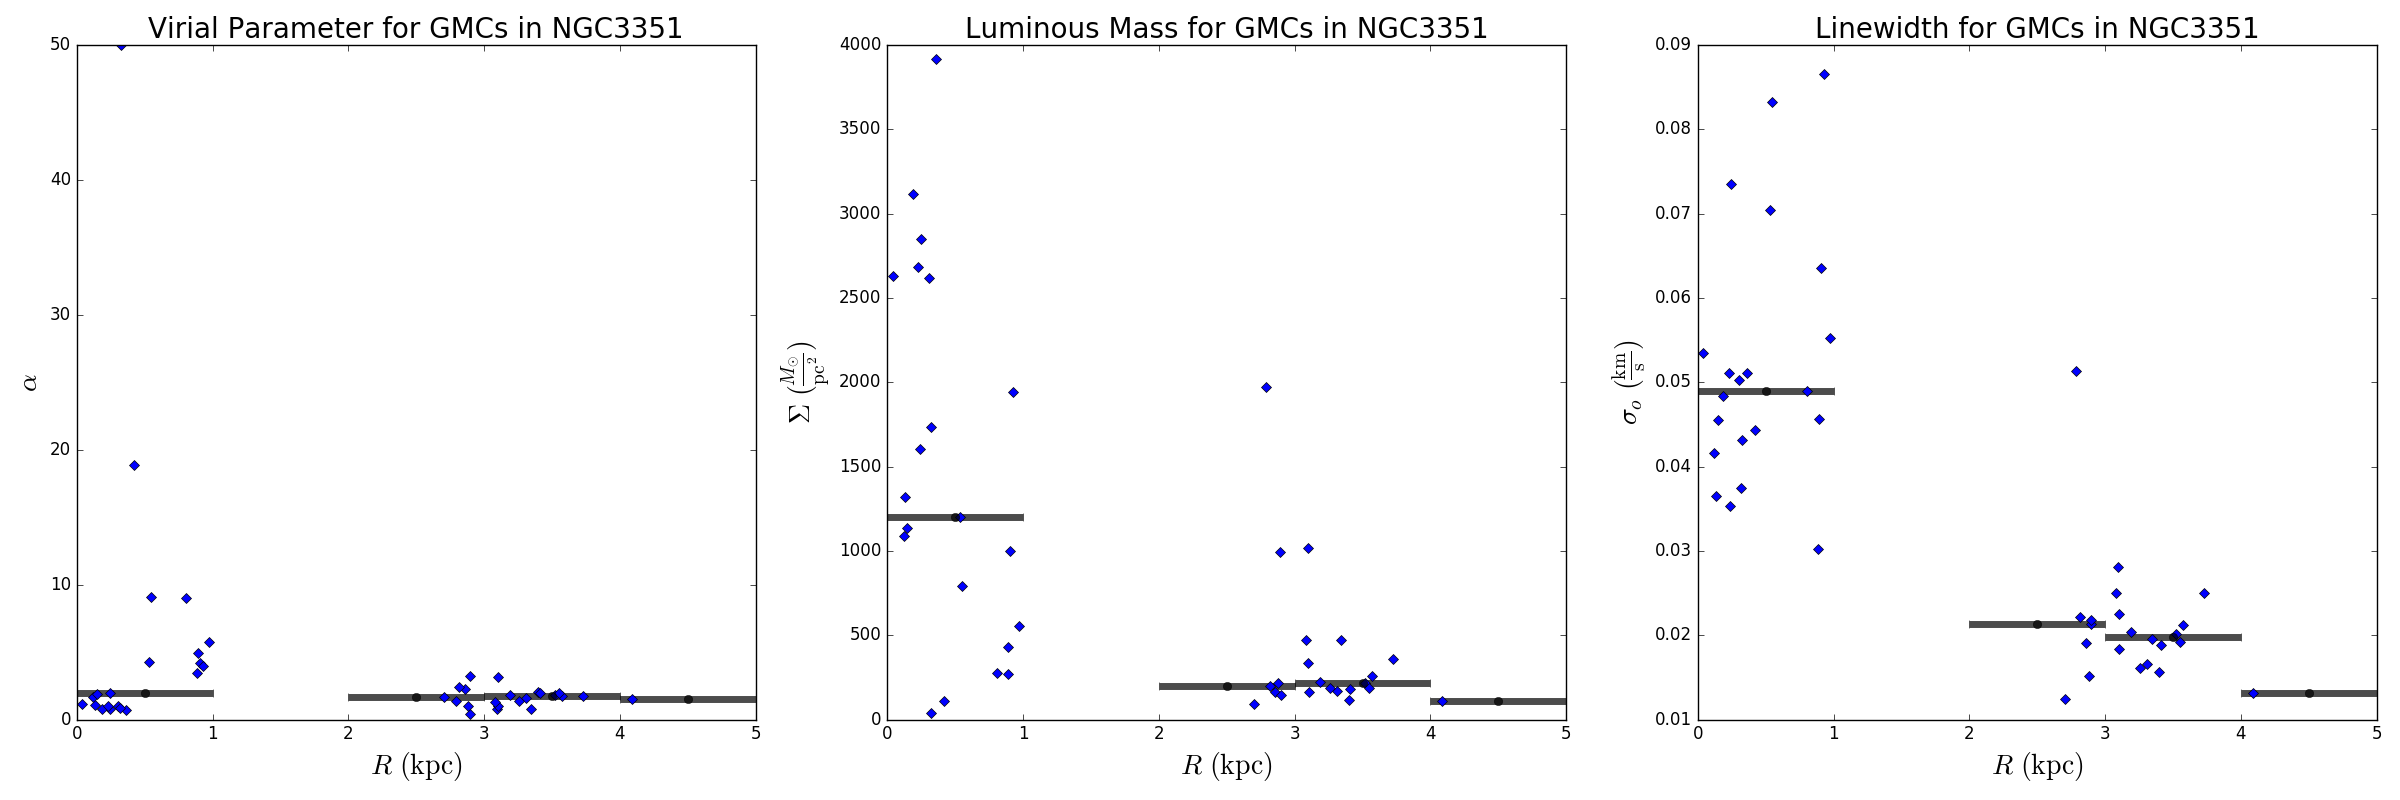
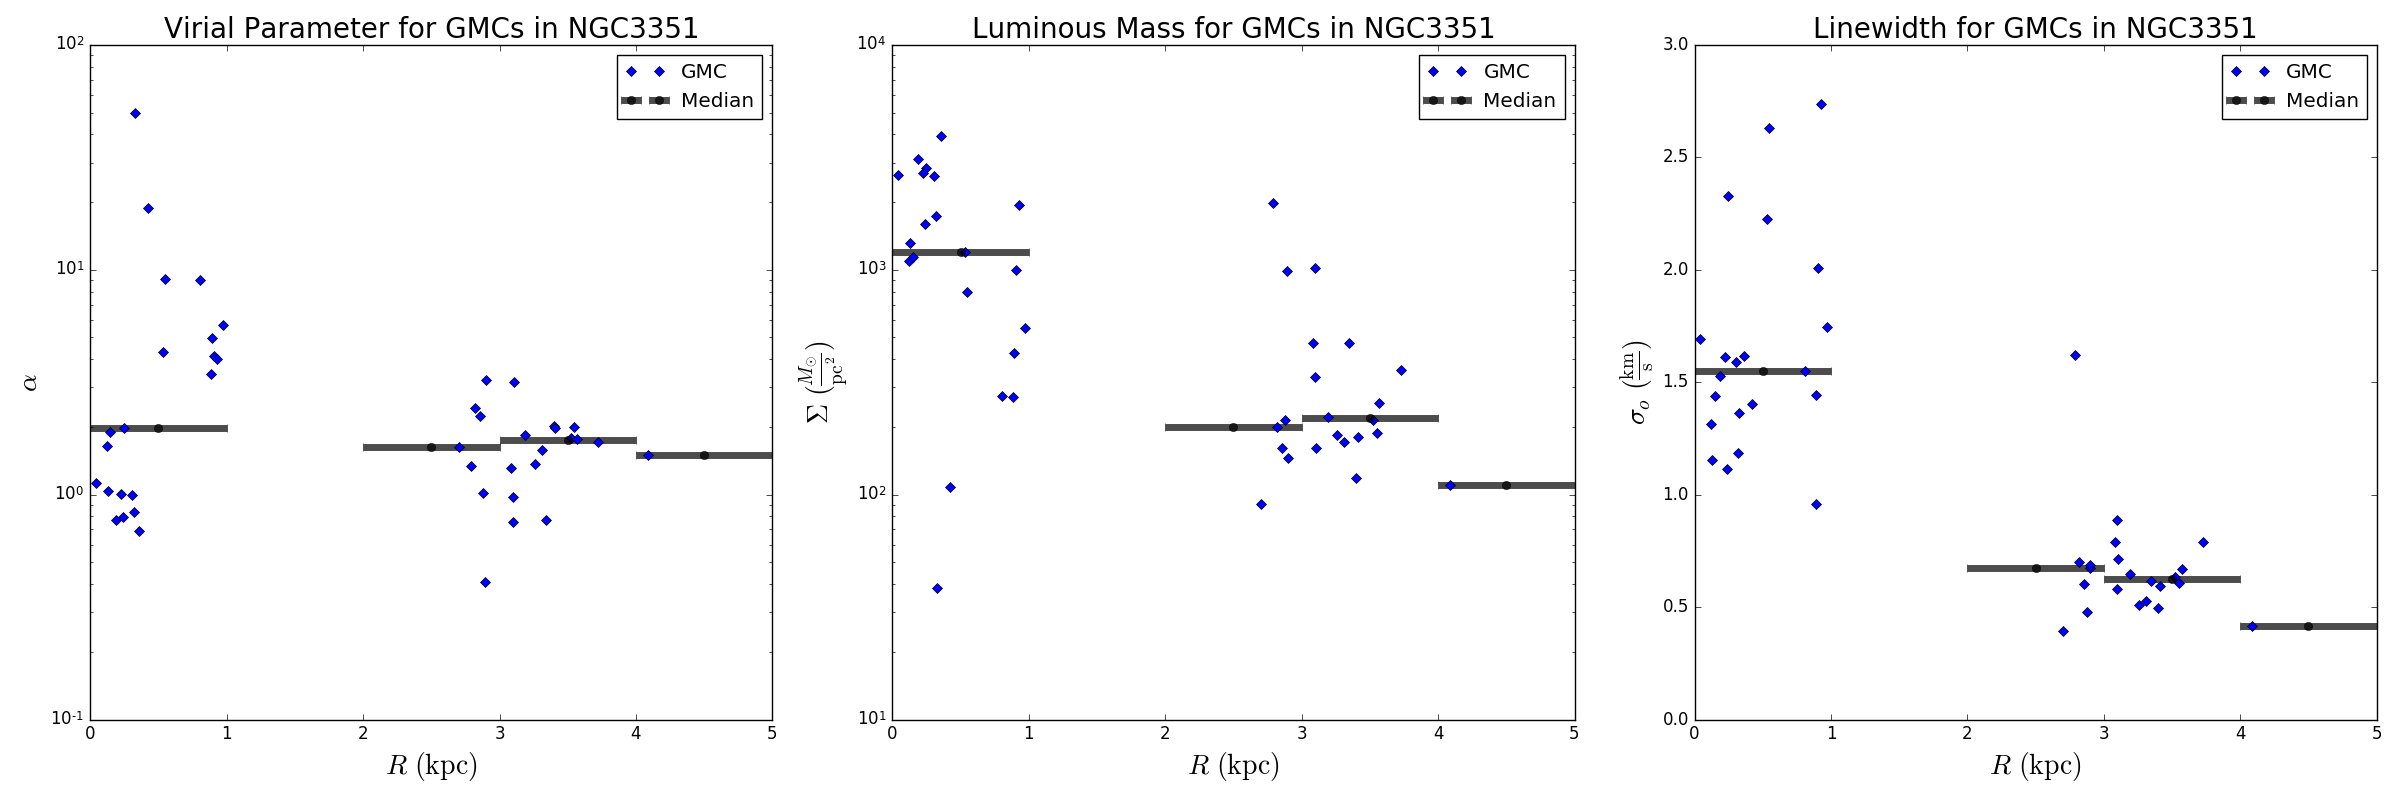
I fixed the y-scale of the first two subplots, and added a legend to each.

diff --git a/mkgraph.py b/mkgraph.py
@@ -1,4 +1,4 @@
-def graphs (galaxyname,data,ofile):
+def graphs (galaxyname,data):
 # This is a module to save data in a series of graphs.
 
      # import the libraries that are needed.
@@ -57,9 +57,9 @@ def graphs (galaxyname,data,ofile):
 
      # Reduce the size of the labels and save the figure
      plt.tight_layout()
-     plt.savefig(ofile)
+     plt.savefig(galaxyname+'_trend.png')
 
-def mapgmc (galaxyname,data,imgfile,ofile):
+def mapgmc (galaxyname,data,imgfile):
 # This is a module to plot the location of the GMCs in a given galaxy on a map of the galaxy.
 
      # import the libraries that are needed.
@@ -88,9 +88,9 @@ def mapgmc (galaxyname,data,imgfile,ofile):
      img.show_markers(xval,yval,edgecolor='white',facecolor='none',marker='D',s=10,alpha=0.7)
 
      # Save the figure.
-     img.save(ofile)
+     img.save(galaxyname+'_map.png')
 
-def param (galaxyname,data,ofile1,ofile2):
+def param (galaxyname,data):
 # This is a module that will plot graphs of the clouds' virial parameter, surface density,
 # and linewidth on a one-parsec scale to its galactocentric radius.
 
@@ -115,12 +115,11 @@ def param (galaxyname,data,ofile1,ofile2):
      yval = cpropstable['YPOS']
      rad = gxy.radius(ra=xval,dec=yval)
      rad = rad.to(u.kpc)
-     print np.amax(rad)
 
      # Calculate the virial parameter, surface density, and linewidth on a one-parsec scale.
      alpha = vmass/lmass
      sigma = lmass/(radrms**2)
-     lwo = lw/((radrms*1000)**0.5)
+     lwo = lw/((radrms)**0.5)
 
      # Separate the data into bins, then calculate the mean values.
      binaxis = [0.5, 1.5, 2.5, 3.5, 4.5, 5.5, 6.5, 7.5, 8.5, 9.5, 10.5]
@@ -135,18 +134,20 @@ def param (galaxyname,data,ofile1,ofile2):
      
      plt.subplot(1,3,1)
      l1 = plt.plot (rad,alpha)
+     plt.yscale('log')
      plt.setp (l1,marker='D',markersize=5,linestyle='None',color='b',label='GMC')
      plt.errorbar(binaxis,alpha_medians,xerr=0.5,linestyle='None',marker='o',color='k',lw=5,alpha=0.7,label='Median')
-#     plt.legend (loc=2)
+     plt.legend (loc=0)
      plt.xlabel(r'$R\ (\mathrm{kpc})$',fontsize=20)
      plt.ylabel(r'$\alpha$',fontsize=20)
      plt.title('Virial Parameter for GMCs in '+galaxyname,fontsize=20)
      
      plt.subplot(1,3,2)
      l1 = plt.plot(rad,sigma)
+     plt.yscale('log')
      plt.setp (l1,marker='D',markersize=5,linestyle='None',color='b',label='GMC')
      plt.errorbar(binaxis,sigma_medians,xerr=0.5,linestyle='None',marker='o',color='k',lw=5,alpha=0.7,label='Median')
-#     plt.legend (loc=2)
+     plt.legend (loc=0)
      plt.xlabel(r'$R\ (\mathrm{kpc})$',fontsize=20)
      plt.ylabel(r'$\Sigma\ (\frac{M_\mathrm{\odot}}{\mathrm{pc}^{2}})$',fontsize=20)
      plt.title('Luminous Mass for GMCs in '+galaxyname,fontsize=20)
@@ -155,23 +156,120 @@ def param (galaxyname,data,ofile1,ofile2):
      l1 = plt.plot(rad,lwo)
      plt.setp (l1,marker='D',markersize=5,linestyle='None',color='b',label='GMC')
      plt.errorbar(binaxis,lwo_medians,xerr=0.5,linestyle='None',marker='o',color='k',lw=5,alpha=0.7,label='Median')
-#     plt.legend (loc=2)
+     plt.legend (loc=0)
      plt.xlabel(r'$R\ (\mathrm{kpc})$',fontsize=20)
      plt.ylabel(r'$\sigma_{o}\ (\frac{\mathrm{km}}{\mathrm{s}})$',fontsize=20)
      plt.title('Linewidth for GMCs in '+galaxyname,fontsize=20)
      
      plt.tight_layout()
-     plt.savefig(ofile1)
+     plt.savefig(galaxyname+'_param.png')
 
      # Make a figure of the median mass for a given radius.
      figure2 = plt.figure(figsize=(8,8))
      
      plt.errorbar(binaxis,bin_means,xerr=0.5,linestyle='None',marker='D',color='b',label='Mean')
      plt.errorbar(binaxis,bin_medians,xerr=0.5,linestyle='None',marker='D',color='g',label='Median')
-     plt.legend (loc=9)
+     plt.legend (loc=0)
      plt.xlabel(r'$R\ (\mathrm{kpc})$',fontsize=20)
      plt.ylabel(r'$M_{\mathrm{lum}}\ (M_{\odot})$',fontsize=20)
      plt.title('GMC Mass Distribution in '+galaxyname,fontsize=20)
      
      plt.tight_layout()
-     plt.savefig(ofile2)
+     plt.savefig(galaxyname+'_dist.png')
+
+# This is some code from the powerlaw template.
+def data(galaxyname,data):
+     
+     #import libraries
+     import astropy
+     import astropy.table
+     import numpy as np
+     from astropy.table import Table
+     from astropy.table import Column
+     import matplotlib.pyplot as plt
+     import powerlaw
+     from galaxies import Galaxy
+     import astropy.units as u
+
+     #get info about m83
+     mygalaxy=Galaxy(galaxyname)
+     print(mygalaxy)
+
+     #load fits file
+     t=Table.read(data)
+
+     #find cloud's galactocentric distance
+     rgal=mygalaxy.radius(ra=(t['XPOS']), dec=(t['YPOS']))
+     rgal=rgal.to(u.pc)
+     rpgal = np.asarray(rgal)
+
+     #add those distances to the fits table
+     col_rgal=Column(name='RADIUS_KPC',data=(rgal))
+     t.add_column(col_rgal)
+
+     # Sort the masses according to galactocentric radius.
+     
+
+     # Create a loop to calculate the bin boundaries.
+     mass = t['MASS_EXTRAP'].data
+     totmass = np.sum(mass)/6
+     start = 0
+     [e1,e2,e3,e4,e5,e6] = [0,0,0,0,0,0]
+     edges = [e1,e2,e3,e4,e5,e6]
+     e=0
+     for i in range(len(mass)):
+          if np.sum(mass[start:i])>totmass:
+               edges[e]=0.5*(rgal[i]+rgal[i+1])
+               start=i+1
+               e=e+1
+     inneredge=np.array([0, e1, e2, e3, e4, e5])
+     outeredge=np.array([e1, e2, e3, e4, e5, e6])
+
+     # Create a template for a new FITS table.
+     column_names=['Inner edge (kpc)', 'Outer edge (kpc)', 'GMC index', 'R', 'p', 'Truncation mass (M$_\odot$)', 'Largest cloud (M$_\odot$)', '5th largest cloud (M$_\odot$)']
+     column_types=['f4', 'f4', 'f4', 'f4', 'f4', 'f4', 'f4', 'f4']
+     table=Table(names=column_names, dtype=column_types)
+
+     for inneredge, outeredge in zip(inneredge, outeredge):
+          
+         idx=np.where((t['RADIUS_KPC']>=inneredge)&(t['RADIUS_KPC']<outeredge))
+         mass=t['MASS_EXTRAP'][idx].data
+         #don't have to create an index for the xmin mass - defined in the fit_subset
+         fit=powerlaw.Fit(mass)
+         fit_subset=powerlaw.Fit(mass, xmin=3e5)
+         R,p=fit_subset.distribution_compare('power_law', 'truncated_power_law')
+         table.add_row()
+         table[-1]['Inner edge (pc)']=inneredge
+         table[-1]['Outer edge (pc)']=outeredge
+         table[-1]['GMC index']=-fit_subset.alpha
+         table[-1]['R']=R
+         table[-1]['p']=p
+         table[-1]['Truncation mass ($M_\odot$)']=1/fit_subset.truncated_power_law.parameter2
+         table[-1]['Largest cloud ($M_\odot$)']=mass.max
+         table[-1]['5th largest cloud ($M_\odot$)']=np.sort(t['MASS_EXTRAP'][idx])[-5]
+
+         print(table)
+         #print(-fit.alpha, -fit_subset.alpha, R, p, 1/fit_subset.truncated_power_law.parameter2)
+         
+     table.write(galaxyname+'_data.fits', overwrite=True)
+
+# This is a module to analyze whether a galaxy's GMC distribution is truncated.
+def pwrlaw(galaxyname, data):
+
+     import powerlaw
+     from astropy.table import Table
+     import matplotlib.pyplot as plt
+     import numpy as np
+
+     t = Table.read(data)
+     mass = t['MASS_EXTRAP'].data
+     myfit = powerlaw.Fit(mass)
+     R, p = myfit.distribution_compare('power_law','truncated_power_law')
+     fig = myfit.truncated_power_law.plot_ccdf(label='Truncated\nPower Law')
+     myfit.power_law.plot_ccdf(label='Power Law',ax=fig)
+     myfit.plot_ccdf(drawstyle='steps',label='Data',ax=fig)
+     plt.legend(loc=0)
+     plt.title('GMC Mass Distribution')
+     plt.xlabel(r'$M_\mathrm{\odot}$')
+     plt.ylabel('CCDF')
+     plt.savefig(galaxyname+'_power_law.png')

diff --git a/co21_data.py b/co21_data.py
@@ -2,46 +2,46 @@ import mkgraph
 
 # Load the data file and display it in a few graphs.
 #NGC1672
-mkgraph.graphs ('NGC1672','NGC1672_co21_cube_props_clfind.fits','NGC1672_trend.png')
-mkgraph.mapgmc ('NGC1672','NGC1672_co21_cube_props_clfind.fits','NGC1672_co21_cube_tpeak.fits','NGC1672_map.png')
-#mkgraph.param ('NGC1672','NGC1672_co21_cube_props_clfind.fits','NGC1672_param.png','NGC1672_dist.png')
+mkgraph.graphs ('NGC1672','NGC1672_co21_cube_props_clfind.fits')
+mkgraph.mapgmc ('NGC1672','NGC1672_co21_cube_props_clfind.fits','NGC1672_co21_cube_tpeak.fits')
+#mkgraph.param ('NGC1672','NGC1672_co21_cube_props_clfind.fits')
 
 #NGC3351
-mkgraph.graphs ('NGC3351','NGC3351_co21_cube_props_clfind.fits','NGC3351_trend.png')
-mkgraph.mapgmc ('NGC3351','NGC3351_co21_cube_props_clfind.fits','NGC3351_co21_cube_tpeak.fits','NGC3351_map.png')
-mkgraph.param ('NGC3351','NGC3351_co21_cube_props_clfind.fits','NGC3351_param.png','NGC3351_dist.png')
+mkgraph.graphs ('NGC3351','NGC3351_co21_cube_props_clfind.fits')
+mkgraph.mapgmc ('NGC3351','NGC3351_co21_cube_props_clfind.fits','NGC3351_co21_cube_tpeak.fits')
+mkgraph.param ('NGC3351','NGC3351_co21_cube_props_clfind.fits')
 
 #NGC3627
-mkgraph.graphs ('NGC3627','NGC3627_co21_cube_props_clfind.fits','NGC3627_trend.png')
-mkgraph.mapgmc ('NGC3627','NGC3627_co21_cube_props_clfind.fits','NGC3627_co21_cube_tpeak.fits','NGC3627_map.png')
-mkgraph.param ('NGC3627','NGC3627_co21_cube_props_clfind.fits','NGC3627_param.png','NGC3627_dist.png')
+mkgraph.graphs ('NGC3627','NGC3627_co21_cube_props_clfind.fits')
+mkgraph.mapgmc ('NGC3627','NGC3627_co21_cube_props_clfind.fits','NGC3627_co21_cube_tpeak.fits')
+mkgraph.param ('NGC3627','NGC3627_co21_cube_props_clfind.fits')
 
 #NGC4254
-mkgraph.graphs ('NGC4254','NGC4254_co21_cube_props_clfind.fits','NGC4254_trend.png')
-mkgraph.mapgmc ('NGC4254','NGC4254_co21_cube_props_clfind.fits','NGC4254_co21_cube_tpeak.fits','NGC4254_map.png')
-mkgraph.param ('NGC4254','NGC4254_co21_cube_props_clfind.fits','NGC4254_param.png','NGC4254_dist.png')
+mkgraph.graphs ('NGC4254','NGC4254_co21_cube_props_clfind.fits')
+mkgraph.mapgmc ('NGC4254','NGC4254_co21_cube_props_clfind.fits','NGC4254_co21_cube_tpeak.fits')
+mkgraph.param ('NGC4254','NGC4254_co21_cube_props_clfind.fits')
 
 #NGC4303
-mkgraph.graphs ('NGC4303','NGC4303_co21_cube_props_clfind.fits','NGC4303_trend.png')
-mkgraph.mapgmc ('NGC4303','NGC4303_co21_cube_props_clfind.fits','NGC4303_co21_cube_tpeak.fits','NGC4303_map.png')
-#mkgraph.param ('NGC4303','NGC4303_co21_cube_props_clfind.fits','NGC4303_param.png','NGC4303_dist.png')
+mkgraph.graphs ('NGC4303','NGC4303_co21_cube_props_clfind.fits')
+mkgraph.mapgmc ('NGC4303','NGC4303_co21_cube_props_clfind.fits','NGC4303_co21_cube_tpeak.fits')
+#mkgraph.param ('NGC4303','NGC4303_co21_cube_props_clfind.fits')
 
 #NGC4321
-mkgraph.graphs ('NGC4321','NGC4321_co21_cube_props_clfind.fits','NGC4321_trend.png')
-mkgraph.mapgmc ('NGC4321','NGC4321_co21_cube_props_clfind.fits','NGC4321_co21_cube_tpeak.fits','NGC4321_map.png')
-mkgraph.param ('NGC4321','NGC4321_co21_cube_props_clfind.fits','NGC4321_param.png','NGC4321_dist.png')
+mkgraph.graphs ('NGC4321','NGC4321_co21_cube_props_clfind.fits')
+mkgraph.mapgmc ('NGC4321','NGC4321_co21_cube_props_clfind.fits','NGC4321_co21_cube_tpeak.fits')
+mkgraph.param ('NGC4321','NGC4321_co21_cube_props_clfind.fits')
 
 #NGC4535
-mkgraph.graphs ('NGC4535','NGC4535_co21_cube_props_clfind.fits','NGC4535_trend.png')
-mkgraph.mapgmc ('NGC4535','NGC4535_co21_cube_props_clfind.fits','NGC4535_co21_cube_tpeak.fits','NGC4535_map.png')
-#mkgraph.param ('NGC4535','NGC4535_co21_cube_props_clfind.fits','NGC4535_param.png','NGC4535_dist.png')
+mkgraph.graphs ('NGC4535','NGC4535_co21_cube_props_clfind.fits')
+mkgraph.mapgmc ('NGC4535','NGC4535_co21_cube_props_clfind.fits','NGC4535_co21_cube_tpeak.fits')
+#mkgraph.param ('NGC4535','NGC4535_co21_cube_props_clfind.fits')
 
 #NGC5068
-mkgraph.graphs ('NGC5068','NGC5068_co21_cube_props_clfind.fits','NGC5068_trend.png')
-mkgraph.mapgmc ('NGC5068','NGC5068_co21_cube_props_clfind.fits','NGC5068_co21_cube_tpeak.fits','NGC5068_map.png')
-#mkgraph.param ('NGC5068','NGC5068_co21_cube_props_clfind.fits','NGC5068_param.png','NGC5068_dist.png')
+mkgraph.graphs ('NGC5068','NGC5068_co21_cube_props_clfind.fits')
+mkgraph.mapgmc ('NGC5068','NGC5068_co21_cube_props_clfind.fits','NGC5068_co21_cube_tpeak.fits')
+#mkgraph.param ('NGC5068','NGC5068_co21_cube_props_clfind.fits')
 
 #NGC6744
-mkgraph.graphs ('NGC6744','NGC6744_co21_cube_props_clfind.fits','NGC6744_trend.png')
-mkgraph.mapgmc ('NGC6744','NGC6744_co21_cube_props_clfind.fits','NGC6744_co21_cube_tpeak.fits','NGC6744_map.png')
-mkgraph.param ('NGC6744','NGC6744_co21_cube_props_clfind.fits','NGC6744_param.png','NGC6744_dist.png')
+mkgraph.graphs ('NGC6744','NGC6744_co21_cube_props_clfind.fits')
+mkgraph.mapgmc ('NGC6744','NGC6744_co21_cube_props_clfind.fits','NGC6744_co21_cube_tpeak.fits')
+mkgraph.param ('NGC6744','NGC6744_co21_cube_props_clfind.fits')
